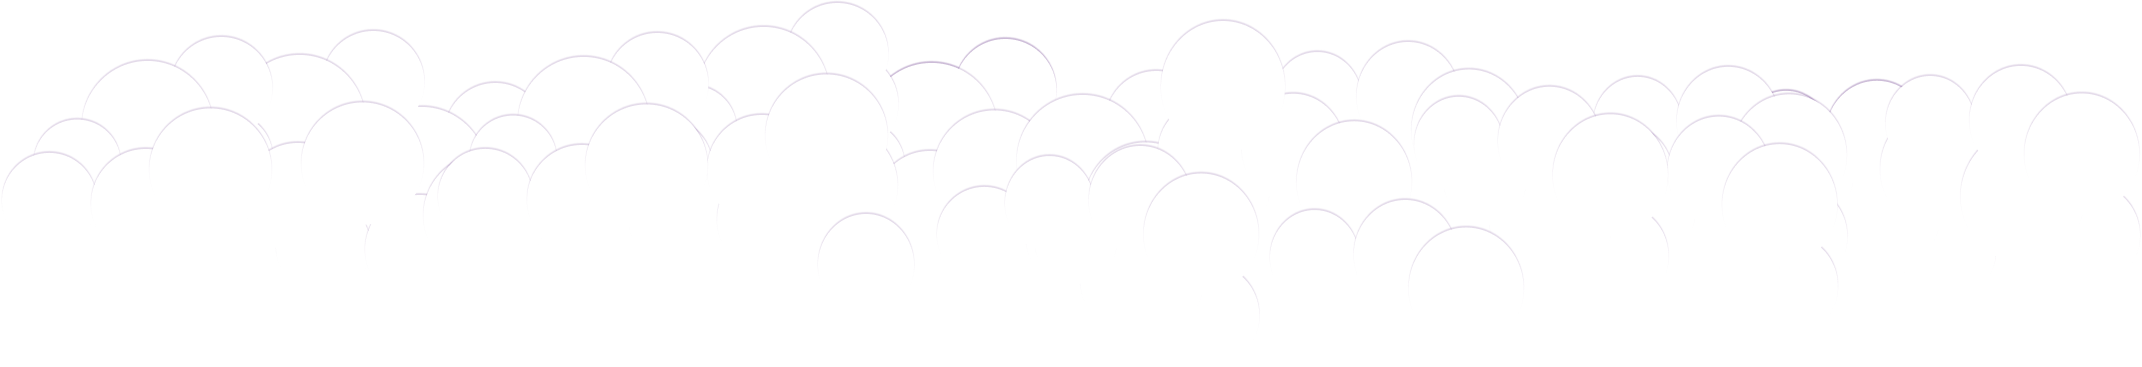
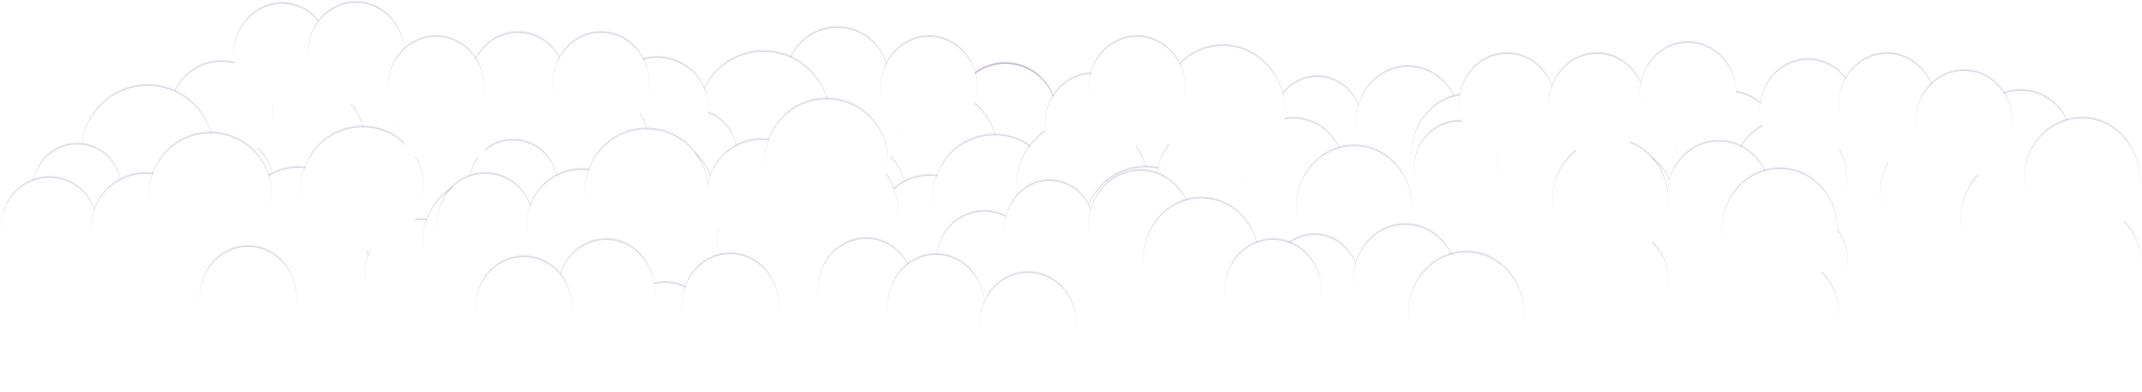
added clouds

diff --git a/src/Pages/Home/Home.scss b/src/Pages/Home/Home.scss
@@ -15,11 +15,15 @@
 }
 
 .clouds {
-  width: 120%;
+  min-width: 120%;
+  position: relative;
+  top: -70px;
+  left: -10%;
+  right: 10%;
 }
 
 .home-cont-hero {
-
+  overflow: hidden;
   background-repeat: no-repeat;
   background-size: cover;
   // background-position: center center;
@@ -186,7 +190,68 @@
   margin-bottom: 5px;
 }
 
+.cloud-img-container {
+  position: absolute;
+  top: 840px;
+  height: 180px;
+  width: 100%;
+  // z-index: -1;
+  background-image: linear-gradient(to top, rgba(255, 255, 255, 0), white);
+  display: inline-block; /* Ensures container fits the image size */
+}
+.cloud-img-container2 {
+  position: absolute;
+  top: 840px;
+  height: 180px;
+  width: 100%;
+  background-image: linear-gradient(to top, rgba(255, 255, 255, 0), white);
+  display: inline-block; /* Ensures container fits the image size */
+}
+
+.clouds {
+  display: block;
+  max-width: 120%;
+  position: relative;
+  top: -85px;
+  left: -10%;
+  right: 10%;
+}
+
+.phoneclouds {
+  display: none;
+}
+
+// .cloud-img-container::after {
+//   content: "";
+//   position: absolute;
+//   bottom: 0;
+//   left: 0;
+//   right: 0;
+//   height: 48%; /* Adjust the height of the fading effect as needed */
+//   background-image: linear-gradient(to top, rgba(255, 255, 255, 0), white); /* Fading from transparent to white */
+//   pointer-events: none; /* Ensures clicks pass through the overlay */
+// }
+
 @media screen and (max-aspect-ratio: 4/3) {
+  .phoneclouds {
+    display: block;
+    max-width: 120%;
+    position: relative;
+    top: -45px;
+    left: -10%;
+    right: 10%;
+  }
+  .cloud-img-container {
+    top: 520px;
+    height: 80px;
+  }
+  .cloud-img-container2 {
+    top: 540px;
+    height: 80px;
+  }
+  .clouds {
+    display: none;
+  }
   .ribbon {
     width: 100%;
     //  font-size: 20px;
@@ -198,6 +263,8 @@
     overflow-x: hidden;
   }
 }
+
+
 
 @media screen and (max-width: 520px) {
   .ribbon {

diff --git a/src/Pages/Home/Home.jsx b/src/Pages/Home/Home.jsx
@@ -4,7 +4,8 @@ import hometoppic from "./hometoppic.png";
 import Footer from "../../Components/Footer/Footer";
 import Ticket from "../../Components/Ticket/Ticket";
 import { motion } from "framer-motion";
-import clouds from './clouds.png'
+import clouds2 from './clouds2.png'
+import phonecloud2 from './phonecloud2.png'
 
 const Home = () => {
   return (
@@ -14,7 +15,14 @@ const Home = () => {
           <img src={hometoppic} alt="" id="homeimg"/>
         </div>
         {/* <div className="before-about"></div> */}
-        <img src={clouds} alt="clouds" className="clouds" />
+        
+        
+        <img src={clouds2} alt="clouds" className="clouds" />
+        <img src={phonecloud2} alt="clouds" className="phoneclouds" />
+        <div className="cloud-img-container">
+        </div>
+        <div className="cloud-img-container2"></div>
+       
         <ExploreCard />
         <motion.div
         initial={{ opacity: 0 }}

diff --git a/src/Components/ExploreCard/ExploreCard.css b/src/Components/ExploreCard/ExploreCard.css
@@ -198,7 +198,8 @@ justify-content: center;
    width: 70%;
   }
   .backii1 {
-    margin-bottom: 30px;
+    margin-bottom: 25px;
+    margin-top: -10px;
   }
   
 }
